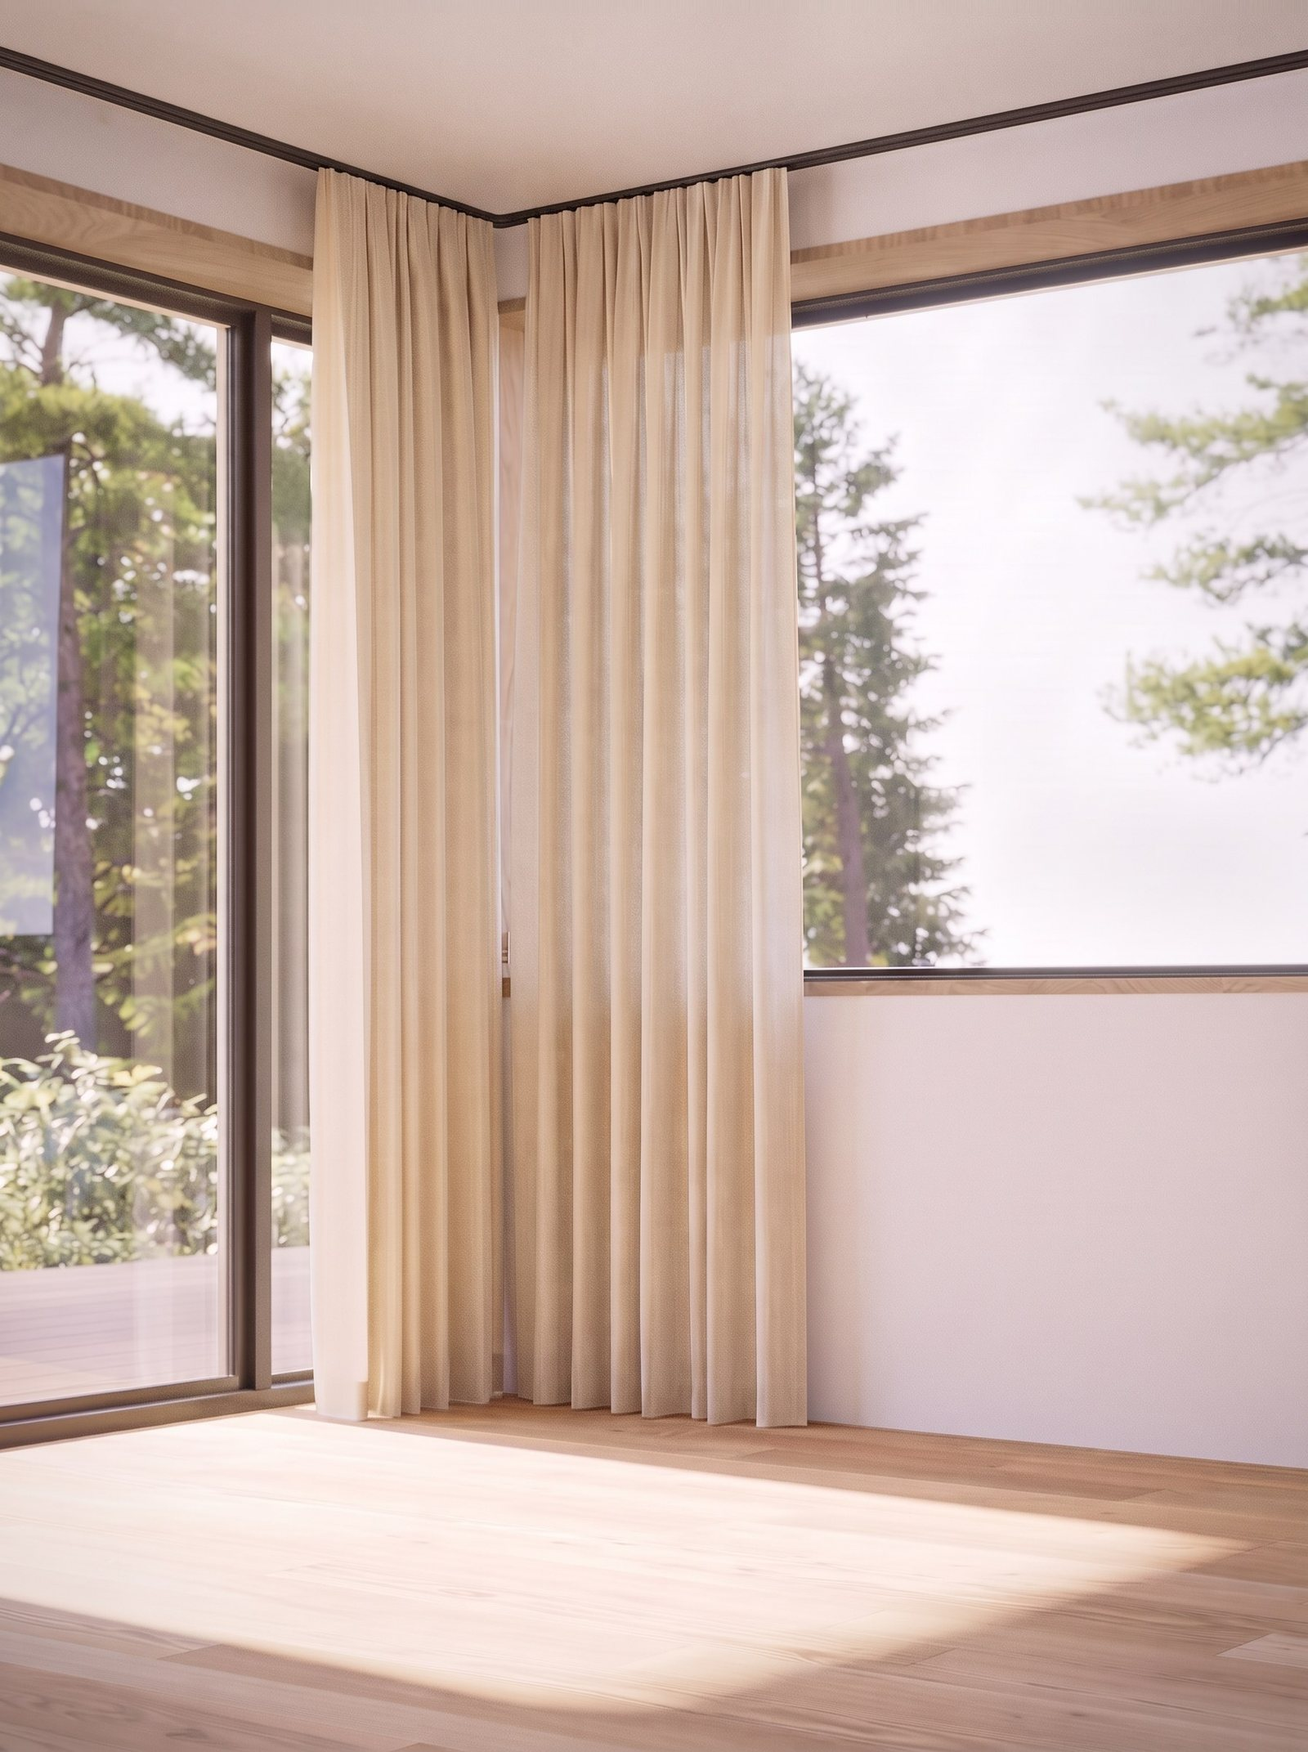
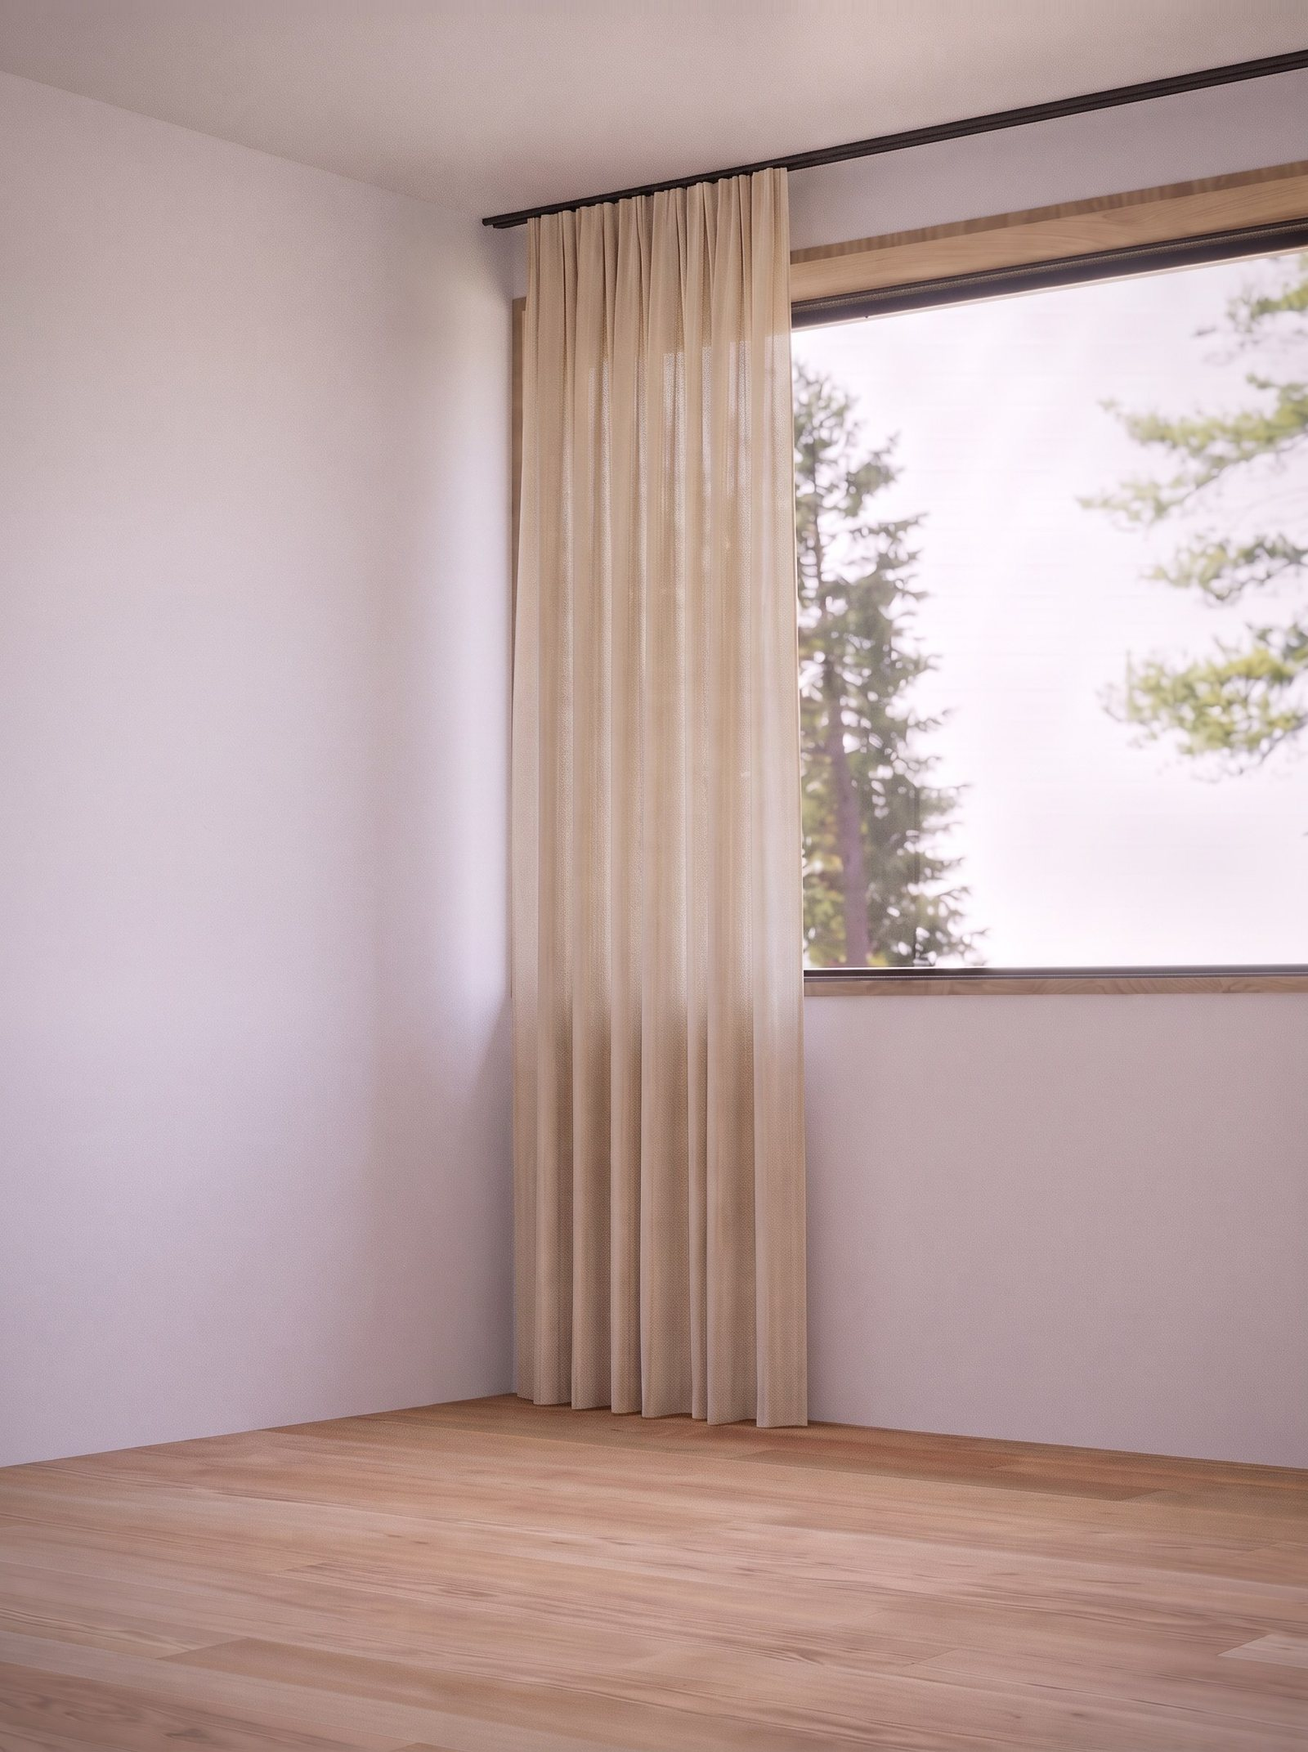
Allrum utan fönster på vänster vägg

diff --git a/index.html b/index.html
@@ -289,7 +289,7 @@ p.allwin{margin:4px 0 0;font-size:14px}
 <div id="zoom" class="zoom" hidden role="dialog" aria-label="Förstorad bild"><button id="zoom-close" class="btn">Stäng</button><img alt="Förstorad bild"></div>
 
 <script>
-const DATA = {"verona":{"name":"Freja","desc":"Elegant, med linnekaraktär. Flamskyddad, 295 cm","def":"31","myth":"Kärlekens och skönhetens gudinna. Vår mest eleganta gardin, med mjukt fall och linnekaraktär.","colors":[{"code":"01","name":"Pigeon","img":"img/verona-01.jpg","hex":"#9b948c","lab":[62,1.1,5.2]},{"code":"02","name":"Tornado","img":"img/verona-02.jpg","hex":"#38393e","lab":[24,0.8,-3.2]},{"code":"03","name":"Brass","img":"img/verona-03.jpg","hex":"#af9056","lab":[61,4.6,34.8]},{"code":"04","name":"Chalk","img":"img/verona-04.jpg","hex":"#eae9e7","lab":[92,0.1,1]},{"code":"05","name":"Signet","img":"img/verona-05.jpg","hex":"#c5beb4","lab":[77,0.9,5.6]},{"code":"06","name":"Cinder","img":"img/verona-06.jpg","hex":"#c9c9bf","lab":[81,-1.8,4.9]},{"code":"07","name":"Nimbus","img":"img/verona-07.jpg","hex":"#989896","lab":[63,-0.4,1]},{"code":"08","name":"Dew","img":"img/verona-08.jpg","hex":"#b1b8b1","lab":[74,-3.7,2.6]},{"code":"09","name":"Caspian","img":"img/verona-09.jpg","hex":"#8e9ca5","lab":[64,-3.3,-6.4]},{"code":"10","name":"Harbour","img":"img/verona-10.jpg","hex":"#394a5e","lab":[31,-0.9,-14]},{"code":"11","name":"Raven","img":"img/verona-11.jpg","hex":"#2e3339","lab":[21,-0.7,-4.5]},{"code":"12","name":"Pacific","img":"img/verona-12.jpg","hex":"#3c4c5b","lab":[31,-2.2,-10.9]},{"code":"13","name":"Niagara","img":"img/verona-13.jpg","hex":"#215d6b","lab":[36,-14.5,-13.4]},{"code":"14","name":"Tide","img":"img/verona-14.jpg","hex":"#8c9894","lab":[62,-5,0.7]},{"code":"15","name":"Verdigris","img":"img/verona-15.jpg","hex":"#8a9f96","lab":[64,-9.2,2.1]},{"code":"16","name":"Aquatic","img":"img/verona-16.jpg","hex":"#547576","lab":[47,-11.5,-4.5]},{"code":"17","name":"Patina","img":"img/verona-17.jpg","hex":"#98a693","lab":[67,-9.2,8.6]},{"code":"18","name":"Breeze","img":"img/verona-18.jpg","hex":"#b8b5a2","lab":[74,-2.3,10.1]},{"code":"19","name":"Laurel","img":"img/verona-19.jpg","hex":"#a6a384","lab":[67,-4.1,16.5]},{"code":"20","name":"Mimosa","img":"img/verona-20.jpg","hex":"#d8c68c","lab":[80,-2.1,31.5]},{"code":"21","name":"Jute","img":"img/verona-21.jpg","hex":"#d2bc94","lab":[77,1.6,23.2]},{"code":"22","name":"Alabaster","img":"img/verona-22.jpg","hex":"#d8d4cb","lab":[85,-0.2,4.9]},{"code":"23","name":"Paper","img":"img/verona-23.jpg","hex":"#d1cbbf","lab":[82,0,6.8]},{"code":"25","name":"Fudge","img":"img/verona-25.jpg","hex":"#b59f8b","lab":[67,4.6,13.3]},{"code":"26","name":"Cognac","img":"img/verona-26.jpg","hex":"#965b43","lab":[45,21.9,24.1]},{"code":"27","name":"Anise","img":"img/verona-27.jpg","hex":"#a43f35","lab":[41,41,27.7]},{"code":"29","name":"Mink","img":"img/verona-29.jpg","hex":"#a49183","lab":[61,4.7,10]},{"code":"30","name":"Malt","img":"img/verona-30.jpg","hex":"#a79b91","lab":[65,2.4,7.7]},{"code":"31","name":"Tofu","img":"img/verona-31.jpg","hex":"#d0c6bb","lab":[80,1.6,6.9]},{"code":"32","name":"Driftwood","img":"img/verona-32.jpg","hex":"#bcb3a6","lab":[73,0.9,7.9]},{"code":"33","name":"Chrome","img":"img/verona-33.jpg","hex":"#aaa29e","lab":[67,2.2,2.7]},{"code":"34","name":"Carbon","img":"img/verona-34.jpg","hex":"#52565a","lab":[36,-0.9,-2.5]},{"code":"35","name":"Koala","img":"img/verona-35.jpg","hex":"#7f7774","lab":[51,2.5,2.7]},{"code":"36","name":"Briar","img":"img/verona-36.jpg","hex":"#d8c1bf","lab":[80,7.3,4.2]},{"code":"37","name":"Moorland","img":"img/verona-37.jpg","hex":"#9b8c8f","lab":[60,6.2,0.4]}]},"carina":{"name":"Nótt","desc":"Mörkläggande, för sovrummen. 280 cm","def":"02","myth":"Nattens gudinna, som för mörkret över himlen. Helt mörkläggande, utan foder.","colors":[{"code":"01","name":"Camelia","img":"img/carina-01.jpg","hex":"#e0dfd9","lab":[89,-0.4,3.1]},{"code":"02","name":"Parchment","img":"img/carina-02.jpg","hex":"#d1ccb8","lab":[82,-1.6,10.2]},{"code":"03","name":"Cashew","img":"img/carina-03.jpg","hex":"#c9c6b3","lab":[80,-2.3,9.9]},{"code":"04","name":"Driftwood","img":"img/carina-04.jpg","hex":"#a8a38c","lab":[67,-1.8,12.5]},{"code":"05","name":"Silt","img":"img/carina-05.jpg","hex":"#7a7a6d","lab":[51,-2.3,7]},{"code":"06","name":"Pigeon","img":"img/carina-06.jpg","hex":"#c0c0b4","lab":[78,-2.2,6.2]},{"code":"07","name":"Agate","img":"img/carina-07.jpg","hex":"#b1b6af","lab":[74,-3.4,3.1]},{"code":"08","name":"Cinder","img":"img/carina-08.jpg","hex":"#d5d4c9","lab":[85,-1.4,5.4]},{"code":"09","name":"Aluminium","img":"img/carina-09.jpg","hex":"#c3c4be","lab":[79,-1.4,2.8]},{"code":"10","name":"Nickel","img":"img/carina-10.jpg","hex":"#a3a097","lab":[66,-0.4,4.8]},{"code":"11","name":"Alpine","img":"img/carina-11.jpg","hex":"#b3bcad","lab":[75,-5.6,6.6]}]},"laurie":{"name":"Vidar","desc":"Diskret skir innergardin. Flamskyddad, 297 cm","def":"14","myth":"Den tystlåtne asen. En diskret, skir innergardin som skyddar mot insyn.","colors":[{"code":"13","name":"White","img":"img/laurie-13.jpg","hex":"#eeecf7","lab":[94,2.6,-5]},{"code":"09","name":"Aluminium","img":"img/laurie-09.jpg","hex":"#c8c4c4","lab":[79,1.4,0.5]},{"code":"15","name":"River","img":"img/laurie-15.jpg","hex":"#bec3c7","lab":[78,-1,-2.6]},{"code":"14","name":"Chalk","img":"img/laurie-14.jpg","hex":"#ece6e8","lab":[92,2.4,-0.2]},{"code":"06","name":"Haze","img":"img/laurie-06.jpg","hex":"#86918f","lab":[59,-4.3,0.1]},{"code":"12","name":"Hydro","img":"img/laurie-12.jpg","hex":"#637972","lab":[49,-9.5,1.2]},{"code":"11","name":"Ink","img":"img/laurie-11.jpg","hex":"#5c646b","lab":[42,-1.5,-5.2]},{"code":"10","name":"Fjord","img":"img/laurie-10.jpg","hex":"#99a8b3","lab":[68,-2.6,-7.7]},{"code":"05","name":"Droplet","img":"img/laurie-05.jpg","hex":"#b9bec5","lab":[77,-0.1,-4.3]},{"code":"01","name":"Silver","img":"img/laurie-01.jpg","hex":"#e2dcde","lab":[88,2.4,-0.3]},{"code":"02","name":"Pigeon","img":"img/laurie-02.jpg","hex":"#c3bdbc","lab":[77,1.7,1.2]},{"code":"17","name":"Jasmine","img":"img/laurie-17.jpg","hex":"#e4ddd9","lab":[89,1.8,2.8]},{"code":"18","name":"Vellum","img":"img/laurie-18.jpg","hex":"#d2c8bc","lab":[81,1.7,7.2]},{"code":"19","name":"Marble","img":"img/laurie-19.jpg","hex":"#dccdc2","lab":[83,3.4,7.3]},{"code":"22","name":"Briar","img":"img/laurie-22.jpg","hex":"#dec9c3","lab":[83,6.3,5.5]},{"code":"20","name":"Malt","img":"img/laurie-20.jpg","hex":"#d0bcb3","lab":[78,5.6,7.1]},{"code":"23","name":"Tuscan","img":"img/laurie-23.jpg","hex":"#96655f","lab":[48,19.1,11.8]},{"code":"24","name":"Cognac","img":"img/laurie-24.jpg","hex":"#a1705a","lab":[52,16.9,19.8]},{"code":"21","name":"Smoke","img":"img/laurie-21.jpg","hex":"#695f5d","lab":[41,3.4,2.9]},{"code":"16","name":"Ebony","img":"img/laurie-16.jpg","hex":"#504e4f","lab":[33,0.8,-0.1]},{"code":"03","name":"Brume","img":"img/laurie-03.jpg","hex":"#86817c","lab":[54,0.8,3.5]},{"code":"07","name":"Ivy","img":"img/laurie-07.jpg","hex":"#908c82","lab":[58,-0.5,5.9]},{"code":"08","name":"Jasper","img":"img/laurie-08.jpg","hex":"#656253","lab":[41,-1.5,8.9]},{"code":"04","name":"Brass","img":"img/laurie-04.jpg","hex":"#c2a674","lab":[69,3.3,29.6]}]},"bands":[{"code":"9100","name":"Flaxen","lab":[55,10.4,28.4],"img":"img/hera-9100-v.jpg","imgH":"img/hera-9100-h.jpg"},{"code":"9300","name":"Nectare","lab":[58,22.4,24.6],"img":"img/hera-9300-v.jpg","imgH":"img/hera-9300-h.jpg"},{"code":"9400","name":"Orchid","lab":[52,20.4,4.5],"img":"img/hera-9400-v.jpg","imgH":"img/hera-9400-h.jpg"},{"code":"9600","name":"Sapphire","lab":[37,-5.5,-18.3],"img":"img/hera-9600-v.jpg","imgH":"img/hera-9600-h.jpg"},{"code":"9900","name":"Anise","lab":[21,0.7,-0.5],"img":"img/hera-9900-v.jpg","imgH":"img/hera-9900-h.jpg"},{"code":"9910","name":"Shadow","lab":[39,0.2,3.3],"img":"img/hera-9910-v.jpg","imgH":"img/hera-9910-h.jpg"}],"band":{"img":"img/hera-9900-v.jpg","imgH":"img/hera-9900-h.jpg"},"scenes":{"vardagsrum":{"w":1600,"h":893,"lref":188,"rail":[[0,0.245,0.045,0.262,0.006,0.006],[0.045,0.262,0.425,0.262,0.006,0.006],[0.54,0.262,0.86,0.262,0.006,0.006],[0.86,0.262,1,0.14,0.006,0.009]],"sheer":true,"band":[[0.12,0.27,0.12,0.84,-1],[0.33,0.27,0.33,0.83,1],[0.61,0.27,0.61,0.83,-1],[0.785,0.27,0.785,0.835,1],[0.905,0.245,0.905,0.85,-1]],"bw":0.008,"SP":[[[0.12,0.27],[0.33,0.27],[0.33,0.83],[0.12,0.83]],[[0.61,0.27],[0.785,0.27],[0.785,0.83],[0.61,0.83]],[[0.905,0.245],[1,0.2],[1,0.86],[0.905,0.85]]],"lref2":186,"slref":216},"passage":{"w":1600,"h":2143,"lref":193,"rail":[[0.28,0.122,0.722,0.122,0.005,0.005]],"sheer":true,"band":[[0.4,0.13,0.4,0.785,-1],[0.595,0.13,0.595,0.785,1]],"bw":0.013,"SP":[[[0.4,0.13],[0.595,0.13],[0.595,0.785],[0.4,0.785]]],"lref2":189,"slref":231},"mv-vardagsrum":{"w":1600,"h":1195,"lref":157,"rail":[[0.435,0.208,0.93,0.152,0.006,0.008]],"sheer":true,"band":[[0.5,0.21,0.5,0.645,-1],[0.815,0.175,0.815,0.69,1]],"bw":0.01,"SP":[[[0.5,0.207],[0.815,0.172],[0.815,0.685],[0.5,0.645]]],"lref2":152,"slref":237},"mv-sovrum":{"w":1600,"h":1195,"lref":187,"rail":[[0.24,0.202,0.877,0.202,0.006,0.006]],"sheer":true,"band":[[0.43,0.21,0.43,0.74,-1],[0.765,0.21,0.765,0.74,1]],"bw":0.011,"SP":[[[0.43,0.21],[0.765,0.21],[0.765,0.74],[0.43,0.74]]],"lref2":184,"slref":229},"matplats":{"w":1600,"h":2385,"lref":165,"rail":[[0,0.252,1,0.252,0.005,0.005]],"sheer":true,"band":[[0.215,0.26,0.215,0.76,-1],[0.83,0.26,0.83,0.76,1]],"bw":0.016,"SP":[[[0.215,0.26],[0.83,0.26],[0.83,0.755],[0.215,0.755]]],"lref2":163,"slref":215},"allrum":{"w":1600,"h":2143,"lref":181,"rail":[[0,0.03,0.38,0.124,0.005,0.007],[0.38,0.124,1,0.03,0.007,0.005]],"sheer":true,"band":[[0.24,0.1,0.24,0.81,1],[0.605,0.1,0.605,0.81,-1]],"bw":0.014,"SP":[[[0,0.04],[0.24,0.1],[0.24,0.83],[0,0.84]],[[0.605,0.1],[1,0.04],[1,0.85],[0.605,0.83]]],"lref2":179,"slref":227},"sovrum":{"w":1600,"h":1195,"lref":185,"rail":[[0.715,0.185,0.84,0,0.008,0.012]],"sheer":false,"band":[[0.763,0.145,0.765,0.77,-1],[0.892,0.02,0.905,0.96,1]],"bw":0.011,"SP":[[[0.765,0.12],[0.89,0],[0.89,0.96],[0.765,0.775]]]}}};
+const DATA = {"verona":{"name":"Freja","desc":"Elegant, med linnekaraktär. Flamskyddad, 295 cm","def":"31","myth":"Kärlekens och skönhetens gudinna. Vår mest eleganta gardin, med mjukt fall och linnekaraktär.","colors":[{"code":"01","name":"Pigeon","img":"img/verona-01.jpg","hex":"#9b948c","lab":[62,1.1,5.2]},{"code":"02","name":"Tornado","img":"img/verona-02.jpg","hex":"#38393e","lab":[24,0.8,-3.2]},{"code":"03","name":"Brass","img":"img/verona-03.jpg","hex":"#af9056","lab":[61,4.6,34.8]},{"code":"04","name":"Chalk","img":"img/verona-04.jpg","hex":"#eae9e7","lab":[92,0.1,1]},{"code":"05","name":"Signet","img":"img/verona-05.jpg","hex":"#c5beb4","lab":[77,0.9,5.6]},{"code":"06","name":"Cinder","img":"img/verona-06.jpg","hex":"#c9c9bf","lab":[81,-1.8,4.9]},{"code":"07","name":"Nimbus","img":"img/verona-07.jpg","hex":"#989896","lab":[63,-0.4,1]},{"code":"08","name":"Dew","img":"img/verona-08.jpg","hex":"#b1b8b1","lab":[74,-3.7,2.6]},{"code":"09","name":"Caspian","img":"img/verona-09.jpg","hex":"#8e9ca5","lab":[64,-3.3,-6.4]},{"code":"10","name":"Harbour","img":"img/verona-10.jpg","hex":"#394a5e","lab":[31,-0.9,-14]},{"code":"11","name":"Raven","img":"img/verona-11.jpg","hex":"#2e3339","lab":[21,-0.7,-4.5]},{"code":"12","name":"Pacific","img":"img/verona-12.jpg","hex":"#3c4c5b","lab":[31,-2.2,-10.9]},{"code":"13","name":"Niagara","img":"img/verona-13.jpg","hex":"#215d6b","lab":[36,-14.5,-13.4]},{"code":"14","name":"Tide","img":"img/verona-14.jpg","hex":"#8c9894","lab":[62,-5,0.7]},{"code":"15","name":"Verdigris","img":"img/verona-15.jpg","hex":"#8a9f96","lab":[64,-9.2,2.1]},{"code":"16","name":"Aquatic","img":"img/verona-16.jpg","hex":"#547576","lab":[47,-11.5,-4.5]},{"code":"17","name":"Patina","img":"img/verona-17.jpg","hex":"#98a693","lab":[67,-9.2,8.6]},{"code":"18","name":"Breeze","img":"img/verona-18.jpg","hex":"#b8b5a2","lab":[74,-2.3,10.1]},{"code":"19","name":"Laurel","img":"img/verona-19.jpg","hex":"#a6a384","lab":[67,-4.1,16.5]},{"code":"20","name":"Mimosa","img":"img/verona-20.jpg","hex":"#d8c68c","lab":[80,-2.1,31.5]},{"code":"21","name":"Jute","img":"img/verona-21.jpg","hex":"#d2bc94","lab":[77,1.6,23.2]},{"code":"22","name":"Alabaster","img":"img/verona-22.jpg","hex":"#d8d4cb","lab":[85,-0.2,4.9]},{"code":"23","name":"Paper","img":"img/verona-23.jpg","hex":"#d1cbbf","lab":[82,0,6.8]},{"code":"25","name":"Fudge","img":"img/verona-25.jpg","hex":"#b59f8b","lab":[67,4.6,13.3]},{"code":"26","name":"Cognac","img":"img/verona-26.jpg","hex":"#965b43","lab":[45,21.9,24.1]},{"code":"27","name":"Anise","img":"img/verona-27.jpg","hex":"#a43f35","lab":[41,41,27.7]},{"code":"29","name":"Mink","img":"img/verona-29.jpg","hex":"#a49183","lab":[61,4.7,10]},{"code":"30","name":"Malt","img":"img/verona-30.jpg","hex":"#a79b91","lab":[65,2.4,7.7]},{"code":"31","name":"Tofu","img":"img/verona-31.jpg","hex":"#d0c6bb","lab":[80,1.6,6.9]},{"code":"32","name":"Driftwood","img":"img/verona-32.jpg","hex":"#bcb3a6","lab":[73,0.9,7.9]},{"code":"33","name":"Chrome","img":"img/verona-33.jpg","hex":"#aaa29e","lab":[67,2.2,2.7]},{"code":"34","name":"Carbon","img":"img/verona-34.jpg","hex":"#52565a","lab":[36,-0.9,-2.5]},{"code":"35","name":"Koala","img":"img/verona-35.jpg","hex":"#7f7774","lab":[51,2.5,2.7]},{"code":"36","name":"Briar","img":"img/verona-36.jpg","hex":"#d8c1bf","lab":[80,7.3,4.2]},{"code":"37","name":"Moorland","img":"img/verona-37.jpg","hex":"#9b8c8f","lab":[60,6.2,0.4]}]},"carina":{"name":"Nótt","desc":"Mörkläggande, för sovrummen. 280 cm","def":"02","myth":"Nattens gudinna, som för mörkret över himlen. Helt mörkläggande, utan foder.","colors":[{"code":"01","name":"Camelia","img":"img/carina-01.jpg","hex":"#e0dfd9","lab":[89,-0.4,3.1]},{"code":"02","name":"Parchment","img":"img/carina-02.jpg","hex":"#d1ccb8","lab":[82,-1.6,10.2]},{"code":"03","name":"Cashew","img":"img/carina-03.jpg","hex":"#c9c6b3","lab":[80,-2.3,9.9]},{"code":"04","name":"Driftwood","img":"img/carina-04.jpg","hex":"#a8a38c","lab":[67,-1.8,12.5]},{"code":"05","name":"Silt","img":"img/carina-05.jpg","hex":"#7a7a6d","lab":[51,-2.3,7]},{"code":"06","name":"Pigeon","img":"img/carina-06.jpg","hex":"#c0c0b4","lab":[78,-2.2,6.2]},{"code":"07","name":"Agate","img":"img/carina-07.jpg","hex":"#b1b6af","lab":[74,-3.4,3.1]},{"code":"08","name":"Cinder","img":"img/carina-08.jpg","hex":"#d5d4c9","lab":[85,-1.4,5.4]},{"code":"09","name":"Aluminium","img":"img/carina-09.jpg","hex":"#c3c4be","lab":[79,-1.4,2.8]},{"code":"10","name":"Nickel","img":"img/carina-10.jpg","hex":"#a3a097","lab":[66,-0.4,4.8]},{"code":"11","name":"Alpine","img":"img/carina-11.jpg","hex":"#b3bcad","lab":[75,-5.6,6.6]}]},"laurie":{"name":"Vidar","desc":"Diskret skir innergardin. Flamskyddad, 297 cm","def":"14","myth":"Den tystlåtne asen. En diskret, skir innergardin som skyddar mot insyn.","colors":[{"code":"13","name":"White","img":"img/laurie-13.jpg","hex":"#eeecf7","lab":[94,2.6,-5]},{"code":"09","name":"Aluminium","img":"img/laurie-09.jpg","hex":"#c8c4c4","lab":[79,1.4,0.5]},{"code":"15","name":"River","img":"img/laurie-15.jpg","hex":"#bec3c7","lab":[78,-1,-2.6]},{"code":"14","name":"Chalk","img":"img/laurie-14.jpg","hex":"#ece6e8","lab":[92,2.4,-0.2]},{"code":"06","name":"Haze","img":"img/laurie-06.jpg","hex":"#86918f","lab":[59,-4.3,0.1]},{"code":"12","name":"Hydro","img":"img/laurie-12.jpg","hex":"#637972","lab":[49,-9.5,1.2]},{"code":"11","name":"Ink","img":"img/laurie-11.jpg","hex":"#5c646b","lab":[42,-1.5,-5.2]},{"code":"10","name":"Fjord","img":"img/laurie-10.jpg","hex":"#99a8b3","lab":[68,-2.6,-7.7]},{"code":"05","name":"Droplet","img":"img/laurie-05.jpg","hex":"#b9bec5","lab":[77,-0.1,-4.3]},{"code":"01","name":"Silver","img":"img/laurie-01.jpg","hex":"#e2dcde","lab":[88,2.4,-0.3]},{"code":"02","name":"Pigeon","img":"img/laurie-02.jpg","hex":"#c3bdbc","lab":[77,1.7,1.2]},{"code":"17","name":"Jasmine","img":"img/laurie-17.jpg","hex":"#e4ddd9","lab":[89,1.8,2.8]},{"code":"18","name":"Vellum","img":"img/laurie-18.jpg","hex":"#d2c8bc","lab":[81,1.7,7.2]},{"code":"19","name":"Marble","img":"img/laurie-19.jpg","hex":"#dccdc2","lab":[83,3.4,7.3]},{"code":"22","name":"Briar","img":"img/laurie-22.jpg","hex":"#dec9c3","lab":[83,6.3,5.5]},{"code":"20","name":"Malt","img":"img/laurie-20.jpg","hex":"#d0bcb3","lab":[78,5.6,7.1]},{"code":"23","name":"Tuscan","img":"img/laurie-23.jpg","hex":"#96655f","lab":[48,19.1,11.8]},{"code":"24","name":"Cognac","img":"img/laurie-24.jpg","hex":"#a1705a","lab":[52,16.9,19.8]},{"code":"21","name":"Smoke","img":"img/laurie-21.jpg","hex":"#695f5d","lab":[41,3.4,2.9]},{"code":"16","name":"Ebony","img":"img/laurie-16.jpg","hex":"#504e4f","lab":[33,0.8,-0.1]},{"code":"03","name":"Brume","img":"img/laurie-03.jpg","hex":"#86817c","lab":[54,0.8,3.5]},{"code":"07","name":"Ivy","img":"img/laurie-07.jpg","hex":"#908c82","lab":[58,-0.5,5.9]},{"code":"08","name":"Jasper","img":"img/laurie-08.jpg","hex":"#656253","lab":[41,-1.5,8.9]},{"code":"04","name":"Brass","img":"img/laurie-04.jpg","hex":"#c2a674","lab":[69,3.3,29.6]}]},"bands":[{"code":"9100","name":"Flaxen","lab":[55,10.4,28.4],"img":"img/hera-9100-v.jpg","imgH":"img/hera-9100-h.jpg"},{"code":"9300","name":"Nectare","lab":[58,22.4,24.6],"img":"img/hera-9300-v.jpg","imgH":"img/hera-9300-h.jpg"},{"code":"9400","name":"Orchid","lab":[52,20.4,4.5],"img":"img/hera-9400-v.jpg","imgH":"img/hera-9400-h.jpg"},{"code":"9600","name":"Sapphire","lab":[37,-5.5,-18.3],"img":"img/hera-9600-v.jpg","imgH":"img/hera-9600-h.jpg"},{"code":"9900","name":"Anise","lab":[21,0.7,-0.5],"img":"img/hera-9900-v.jpg","imgH":"img/hera-9900-h.jpg"},{"code":"9910","name":"Shadow","lab":[39,0.2,3.3],"img":"img/hera-9910-v.jpg","imgH":"img/hera-9910-h.jpg"}],"band":{"img":"img/hera-9900-v.jpg","imgH":"img/hera-9900-h.jpg"},"scenes":{"vardagsrum":{"w":1600,"h":893,"lref":188,"rail":[[0,0.245,0.045,0.262,0.006,0.006],[0.045,0.262,0.425,0.262,0.006,0.006],[0.54,0.262,0.86,0.262,0.006,0.006],[0.86,0.262,1,0.14,0.006,0.009]],"sheer":true,"band":[[0.12,0.27,0.12,0.84,-1],[0.33,0.27,0.33,0.83,1],[0.61,0.27,0.61,0.83,-1],[0.785,0.27,0.785,0.835,1],[0.905,0.245,0.905,0.85,-1]],"bw":0.008,"SP":[[[0.12,0.27],[0.33,0.27],[0.33,0.83],[0.12,0.83]],[[0.61,0.27],[0.785,0.27],[0.785,0.83],[0.61,0.83]],[[0.905,0.245],[1,0.2],[1,0.86],[0.905,0.85]]],"lref2":186,"slref":216},"passage":{"w":1600,"h":2143,"lref":193,"rail":[[0.28,0.122,0.722,0.122,0.005,0.005]],"sheer":true,"band":[[0.4,0.13,0.4,0.785,-1],[0.595,0.13,0.595,0.785,1]],"bw":0.013,"SP":[[[0.4,0.13],[0.595,0.13],[0.595,0.785],[0.4,0.785]]],"lref2":189,"slref":231},"mv-vardagsrum":{"w":1600,"h":1195,"lref":157,"rail":[[0.435,0.208,0.93,0.152,0.006,0.008]],"sheer":true,"band":[[0.5,0.21,0.5,0.645,-1],[0.815,0.175,0.815,0.69,1]],"bw":0.01,"SP":[[[0.5,0.207],[0.815,0.172],[0.815,0.685],[0.5,0.645]]],"lref2":152,"slref":237},"mv-sovrum":{"w":1600,"h":1195,"lref":187,"rail":[[0.24,0.202,0.877,0.202,0.006,0.006]],"sheer":true,"band":[[0.43,0.21,0.43,0.74,-1],[0.765,0.21,0.765,0.74,1]],"bw":0.011,"SP":[[[0.43,0.21],[0.765,0.21],[0.765,0.74],[0.43,0.74]]],"lref2":184,"slref":229},"matplats":{"w":1600,"h":2385,"lref":165,"rail":[[0,0.252,1,0.252,0.005,0.005]],"sheer":true,"band":[[0.215,0.26,0.215,0.76,-1],[0.83,0.26,0.83,0.76,1]],"bw":0.016,"SP":[[[0.215,0.26],[0.83,0.26],[0.83,0.755],[0.215,0.755]]],"lref2":163,"slref":215},"allrum":{"w":1600,"h":2143,"lref":165,"rail":[[0.37,0.127,1,0.032,0.006,0.007]],"sheer":true,"band":[[0.61,0.1,0.61,0.8,-1]],"bw":0.014,"SP":[[[0.61,0.097],[1,0.036],[1,0.85],[0.61,0.81]]],"lref2":164,"slref":222},"sovrum":{"w":1600,"h":1195,"lref":185,"rail":[[0.715,0.185,0.84,0,0.008,0.012]],"sheer":false,"band":[[0.763,0.145,0.765,0.77,-1],[0.892,0.02,0.905,0.96,1]],"bw":0.011,"SP":[[[0.765,0.12],[0.89,0],[0.89,0.96],[0.765,0.775]]]}}};
 const BAND_PRICE = 3500;
 const RAILS=[{code:'58',name:'Borstad matt svart',hex:'#1a1a1a',img:'img/skena/svart.jpg'},{code:'55',name:'Matt borstad brons',hex:'#7a6142',img:'img/skena/brons.jpg'},{code:'57',name:'Borstad matt nickel',hex:'#a3a29d',img:'img/skena/nickel.jpg'},{code:'56',name:'Matt vit',hex:'#ecebe7',img:'img/skena/vit.jpg'}];
 const railOf=s=>RAILS.find(x=>x.code===(s.rcolor||'58'))||RAILS[0];
